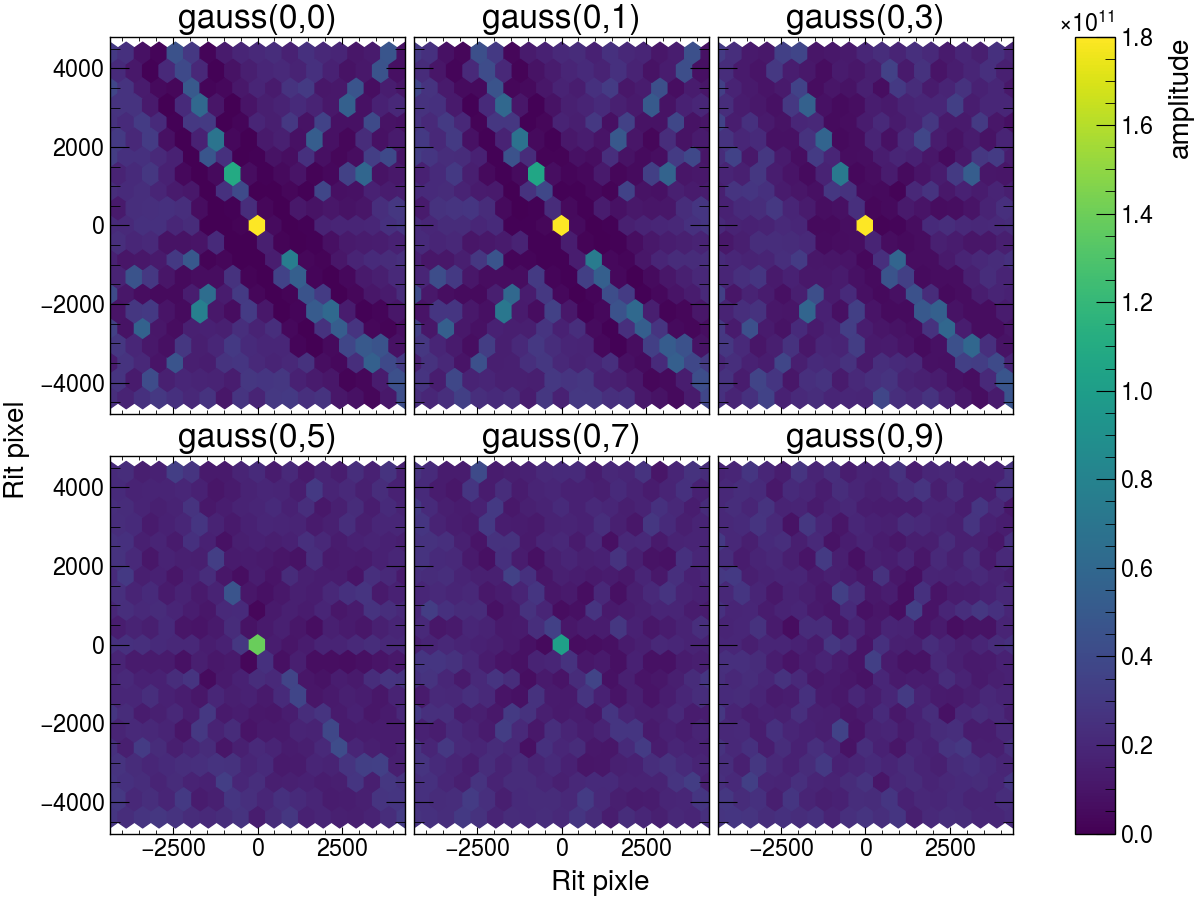
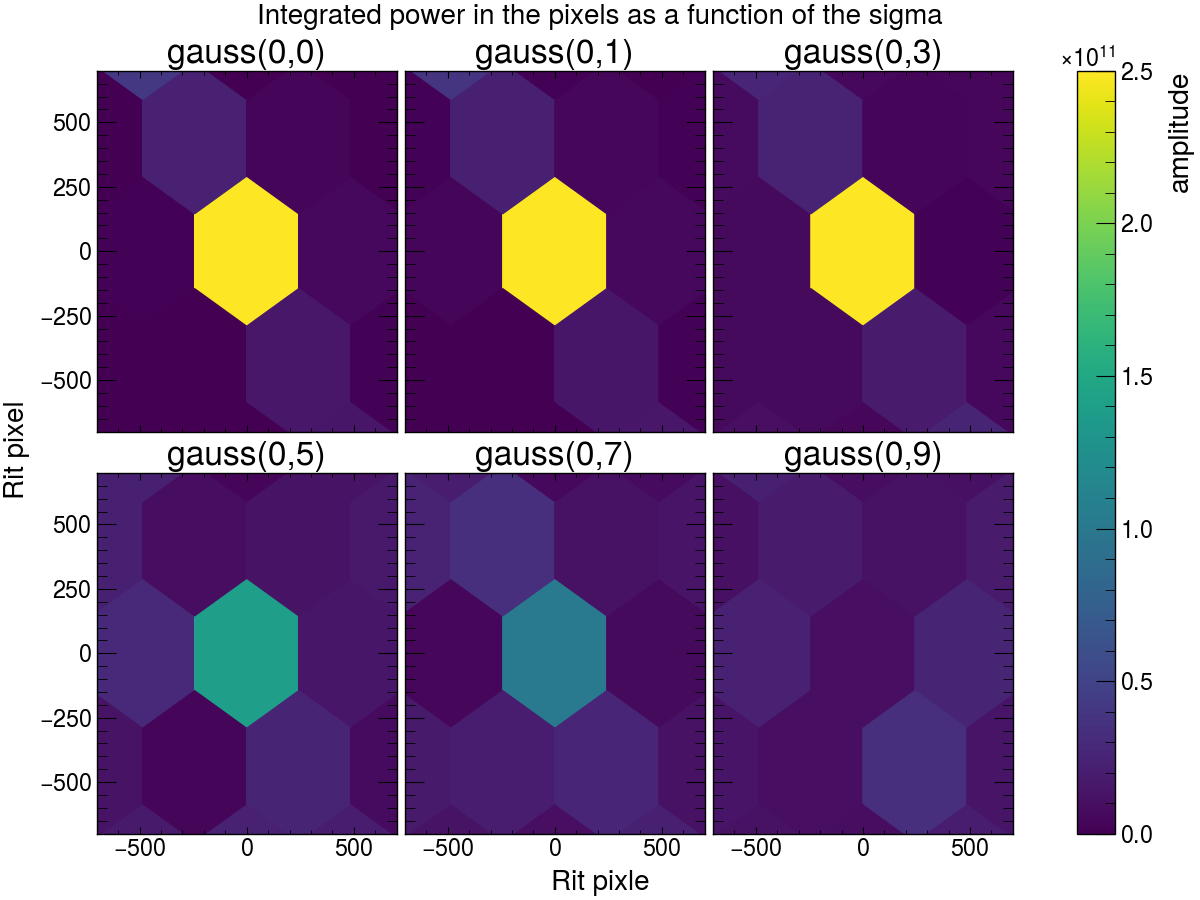
pixel  change

diff --git a/chapt7 int_xmax/xrit_pixel.py b/chapt7 int_xmax/xrit_pixel.py
@@ -17,11 +17,15 @@ fig, axes = plt.subplots(nrows=2, ncols=3,
                         figsize=([12, 9]), constrained_layout=True,sharex=True,sharey=True)
 i=0
 for ax in axes.flat:
-    im =  ax.hexbin(appndata[i][0],appndata[i][1],C=appndata[i][2],gridsize=18, vmin=0,vmax=1.8*10**11)
+    im =  ax.hexbin(appndata[i][0],appndata[i][1],C=appndata[i][2],gridsize=18, vmin=0,vmax=2.5*10**11)
+    #im = ax.scatter(appndata[i][0],appndata[i][1],c=appndata[i][2],s=5000,marker='s',vmin=0,vmax=2.5*10**11)
     ax.set_title('gauss(0,%d)'%jitter[i])
     i+=1
 fig.colorbar(im, ax=axes.ravel().tolist(),label='amplitude')
 fig.supxlabel('Rit pixle',fontsize=20)
 fig.supylabel('Rit pixel',fontsize=20)
+fig.suptitle('Integrated power in the pixels as a function of the sigma',fontsize=20)
+plt.xlim(-700,700)
+plt.ylim(-700,700)
 plt.savefig('cmaps.png')
 plt.show()
